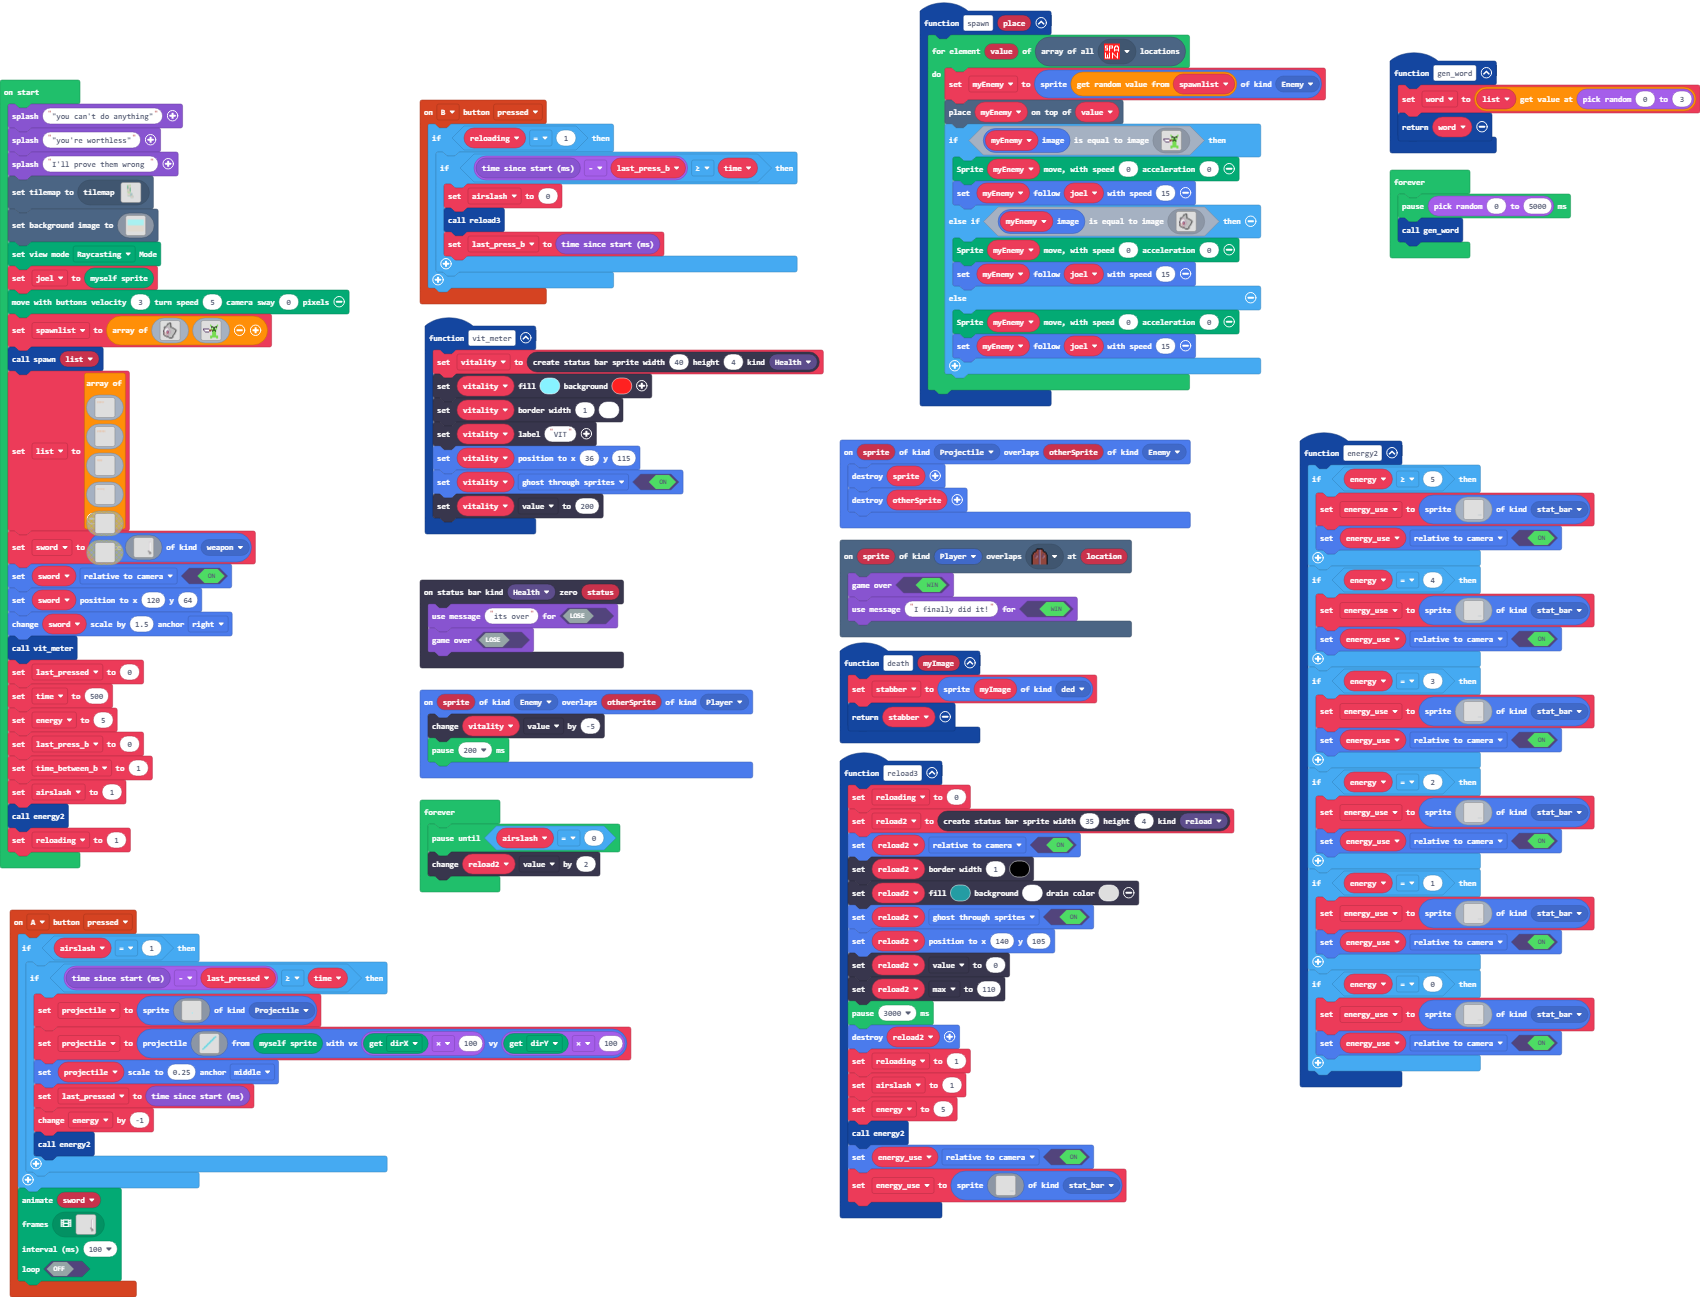
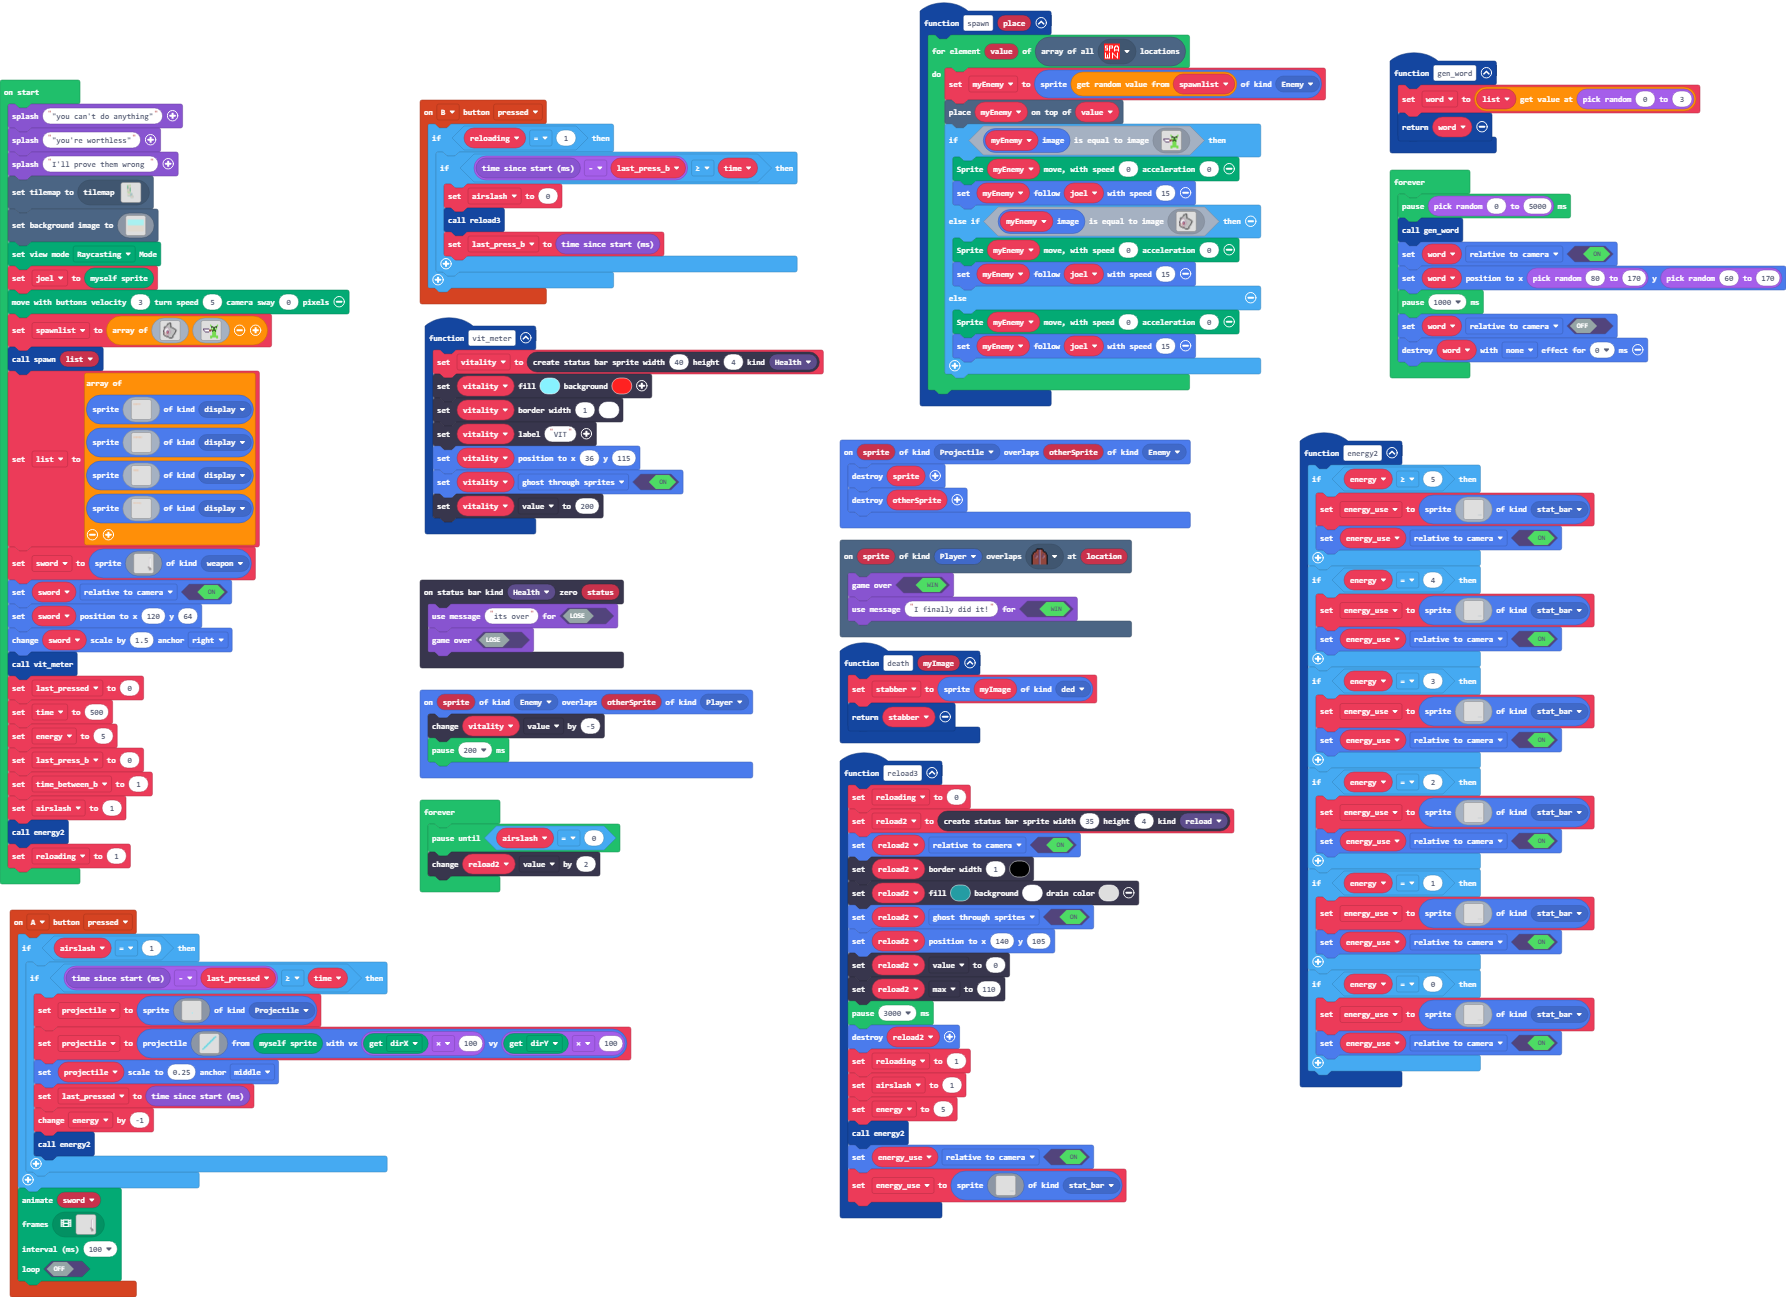
Update main.blocks, main.ts

diff --git a/main.ts b/main.ts
@@ -2,6 +2,7 @@ namespace SpriteKind {
     export const weapon = SpriteKind.create()
     export const stat_bar = SpriteKind.create()
     export const ded = SpriteKind.create()
+    export const display = SpriteKind.create()
 }
 namespace StatusBarKind {
     export const reload = StatusBarKind.create()
@@ -133,7 +134,7 @@ let stabber: Sprite = null
 let reload2: StatusBarSprite = null
 let projectile: Sprite = null
 let energy_use: Sprite = null
-let word: Image = null
+let word: Sprite = null
 let reloading = 0
 let airslash = 0
 let last_press_b = 0
@@ -141,7 +142,7 @@ let energy = 0
 let time = 0
 let last_pressed = 0
 let sword: Sprite = null
-let list: Image[] = []
+let list: Sprite[] = []
 let spawnlist: Image[] = []
 let joel: Sprite = null
 game.splash("\"you can't do anything\"")
@@ -155,10 +156,10 @@ Render.moveWithController(3, 5, 0)
 spawnlist = [assets.image`dusk`, assets.image`stabby`]
 spawn(list)
 list = [
-assets.image`1`,
-assets.image`2`,
-assets.image`3`,
-assets.image`4`
+sprites.create(assets.image`1`, SpriteKind.display),
+sprites.create(assets.image`2`, SpriteKind.display),
+sprites.create(assets.image`3`, SpriteKind.display),
+sprites.create(assets.image`4`, SpriteKind.display)
 ]
 sword = sprites.create(assets.image`sword`, SpriteKind.weapon)
 sword.setFlag(SpriteFlag.RelativeToCamera, true)
@@ -176,6 +177,11 @@ reloading = 1
 forever(function () {
     pause(randint(0, 5000))
     gen_word()
+    word.setFlag(SpriteFlag.RelativeToCamera, true)
+    word.setPosition(randint(80, 170), randint(60, 170))
+    pause(1000)
+    word.setFlag(SpriteFlag.RelativeToCamera, false)
+    sprites.destroy(word, effects.none, 0)
 })
 forever(function () {
     pauseUntil(() => airslash == 0)
